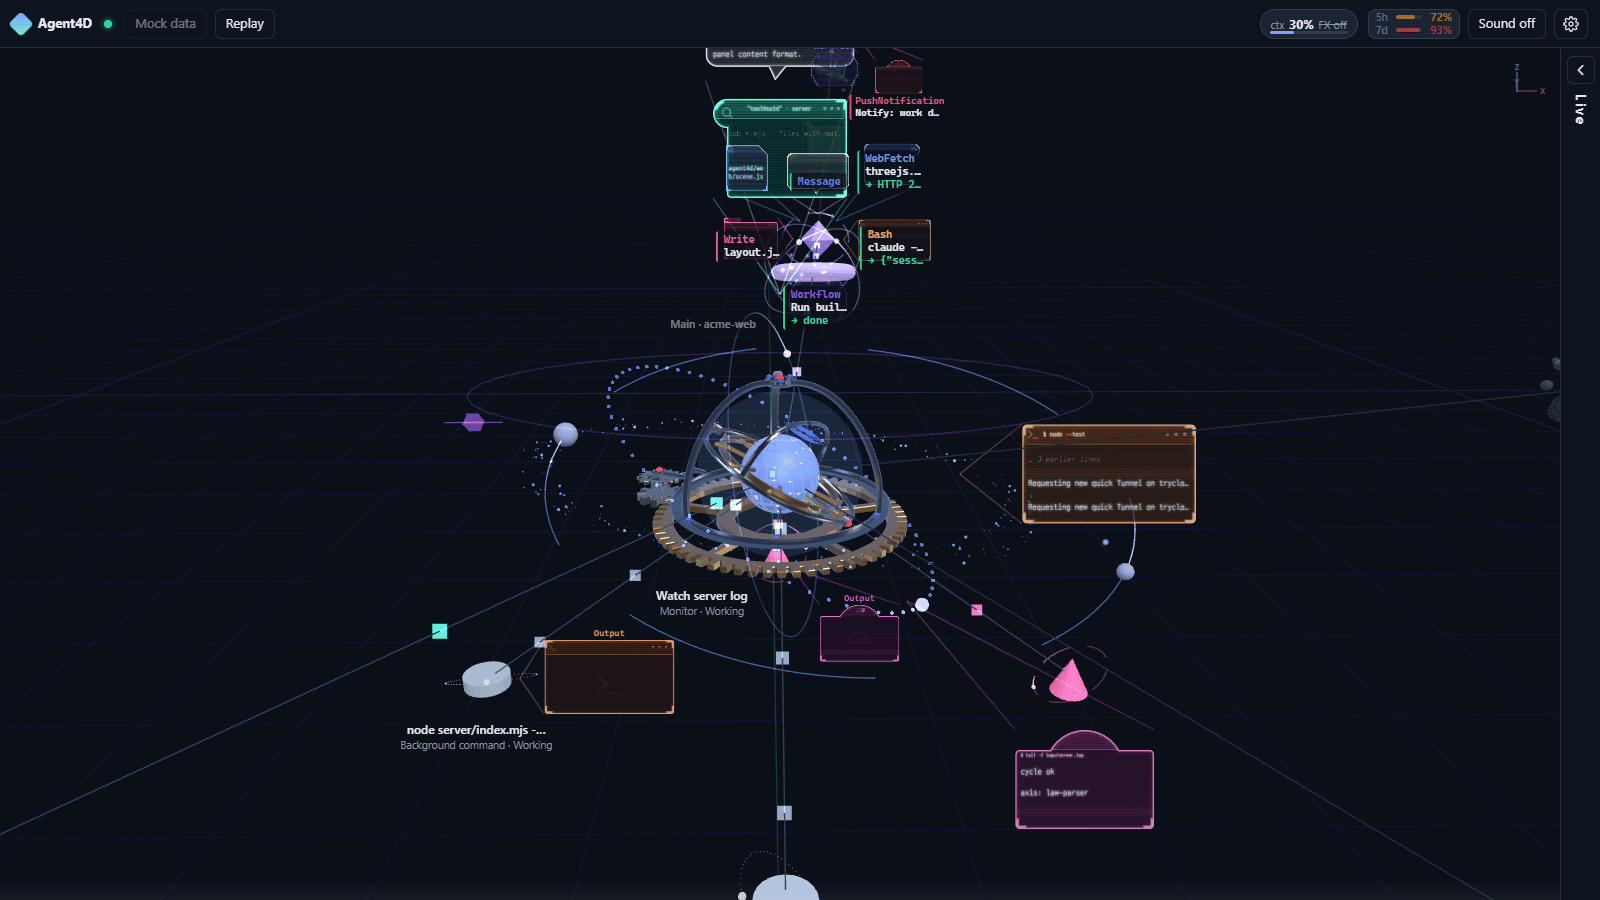
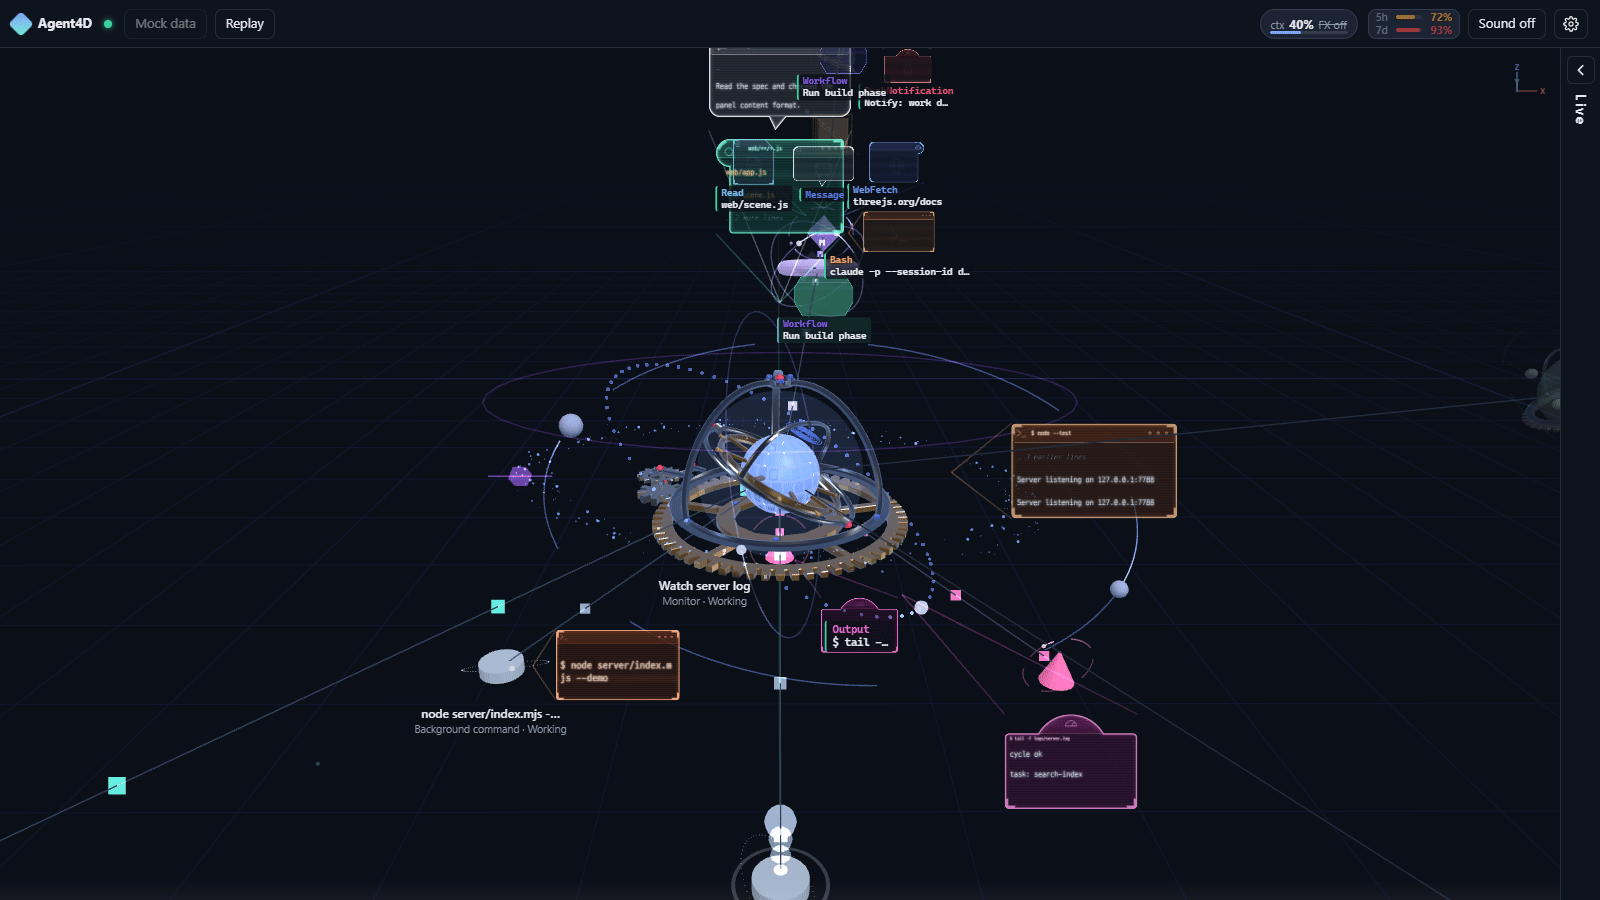
Mock data: generic project and log names; overview mock honors a fixed context level; refreshed screenshots and loops

diff --git a/web/mock.js b/web/mock.js
@@ -14,7 +14,7 @@ const TOOLS = [
   ['Grep', 'search', ['toolUseId', 'task-notification', 'CCVIZ_READY']],
   ['SendMessage', 'agent', ['검증 담당에게 결과 전달']],
   ['Workflow', 'workflow', ['빌드 단계 실행']],
-  ['Skill', 'skill', ['frontend-design', 'cloudflare:cf-cli', 'writing-style', 'skill-creator']],
+  ['Skill', 'skill', ['frontend-design', 'cloudflare:cf-cli', 'style-guide', 'skill-creator']],
   ['WebFetch', 'web', ['developers.cloudflare.com', 'threejs.org']],
   ['Monitor', 'monitor', ['터널 로그 감시']],
   ['mcp__context7__query-docs', 'mcp', ['context7.query-docs']],
@@ -33,7 +33,7 @@ const TEXTS = [
 ];
 const OUTPUTS = [
   'GET /healthz 200 3ms', 'compiling… done in 412ms', '[watch] 2 files changed', '2026-10-23T01:12:04Z INF Registered tunnel connection',
-  'ok 12 - layout golden angle\nok 13 - camera framing', 'event: ev  seq=1532', 'Requesting new quick Tunnel on trycloudflare.com...',
+  'ok 12 - layout golden angle\nok 13 - camera framing', 'event: ev  seq=1532', 'Server listening on 127.0.0.1:7788',
 ];
 const AGENT_LABELS = ['서버 파서 구현', '3D 프런트엔드', '배경음악 합성', 'Cloudflare 워커', '통합 검증', '문서·스킬 정리',
   '계약 검토', '성능 측정', '보안 점검', '모바일 화면 확인'];
@@ -276,7 +276,7 @@ export class MockGenerator {
       onEnd: (o) => this.at(2000, (o2) => { if (!childDone) { childDone = true; this.emit(o2, { type: 'result', nodeId: id, ok: true, text: '독립 세션 결과: 통합 시험 통과' }); this.setStatus(o2, id, 'done'); } }),
     });
     this.at(700, (o) => {
-      this.addNode(o, { id, parentId, kind: 'claude-p', label: 'claude -p · ' + sid.slice(0, 8), meta: { title: '통합 시험을 실행하고 결과를 JSON 으로 보고하라.', cwd: 'C:\\…\\scratchpad\\ccviz-probe' } });
+      this.addNode(o, { id, parentId, kind: 'claude-p', label: 'claude -p · ' + sid.slice(0, 8), meta: { title: '통합 시험을 실행하고 결과를 JSON 으로 보고하라.', cwd: 'C:\\Users\\dev\\AppData\\Local\\Temp\\sandbox' } });
       this.emit(o, { type: 'user', nodeId: id, origin: 'human', text: '통합 시험을 실행하고 결과를 JSON 으로 보고하라.' });
       this.at(500, (o2) => this.act(o2, id));
       this.at(2500, (o2) => this.spawnAgent(o2, id, 'claude -p 하위 에이전트', { life: 16000 }));
@@ -393,7 +393,7 @@ export class MockGenerator {
     this.at(8400, (o) => {
       if (!agent || !this.alive(agent)) return;
       const tu = this.tuid();
-      const cmd = 'cd /d/DEV_REPOS/demo_api && nohup bash .autopilot/relaunch.sh > .autopilot/relaunch.out 2>&1 < /dev/null & disown';
+      const cmd = 'cd /d/code/api-server && nohup bash .loop/relaunch.sh > .loop/relaunch.out 2>&1 < /dev/null & disown';
       this.emit(o, { type: 'tool-start', nodeId: agent, toolUseId: tu, tool: 'Bash', cat: 'shell', skill: null, text: cmd, brief: 'relaunch.sh 분리 실행', detail: '새 축 둘 세우고 루프 재기동' });
       this.emit(o, { type: 'tool-end', nodeId: agent, toolUseId: tu, tool: 'Bash', cat: 'shell', ok: true, durationMs: 240, text: '', brief: 'exit 0' });
       const t = this.t0 + this.t;
@@ -407,7 +407,7 @@ export class MockGenerator {
       this.lc.n = hist.length;
       this.addNode(o, { id: L, parentId: agent, kind: 'bash-bg', label: '기동기 · relaunch.sh', meta: {
         title: '자율 루프 재기동', detached: true, background: true, toolUseId: tu, command: null,
-        launcher: { script: 'relaunch.sh', via: ['relaunch.sh', 'autopilot-pick-axis.sh', 'autopilot.sh'] },
+        launcher: { script: 'relaunch.sh', via: ['relaunch.sh', 'pick-task.sh', 'loop.sh'] },
         ...(opt.adopted ? { adopted: { fromSession: 'd3e7a1c9-demo', launchedAt: this.iso() } } : {}),
         batch: this._batchMeta() } });
       this.at(1200, (o2) => this._startCycle(o2));
@@ -440,7 +440,7 @@ export class MockGenerator {
     this.lc.items.push(it);
     this.addNode(out, { id, parentId: L, kind: 'claude-p', label: 'claude -p · ' + sid.slice(0, 8), meta: {
       title: '자율 사이클이다. 진행 중인 축 하나를 골라 계약대로 한 단계 진행하고 결과를 JSON 으로 남겨라.',
-      cwd: 'D:\\DEV_REPOS\\demo_api', cycle: k,
+      cwd: 'D:\\code\\api-server', cycle: k,
       link: { by: 'launcher', confidence: k % 3 === 0 ? 'medium' : 'high', evidence: k % 3 === 0 ? ['script-claude-p', 'cwd', 'time', 'earlier-same-launcher-open'] : ['script-claude-p', 'cwd', 'time', 'chain'] } } });
     this.emit(out, { type: 'node-update', nodeId: L, patch: { meta: { batch: this._batchMeta() } } });
     this.emit(out, { type: 'user', nodeId: id, origin: 'human', text: '자율 사이클이다. 진행 중인 축 하나를 골라 계약대로 한 단계 진행하라.' });
@@ -452,7 +452,7 @@ export class MockGenerator {
       for (const t of n.openTools.slice()) this.emit(o, { type: 'tool-end', nodeId: id, toolUseId: t.toolUseId, tool: t.tool, cat: t.cat, ok: true, durationMs: 300, text: '완료' });
       for (const c of this.nodes.values()) if (c.parentId === id && this.alive(c.id)) this.finishAgent(o, c.id);
       const stop = k % 5 === 0;
-      this.emit(o, { type: 'result', nodeId: id, ok: true, text: stop ? '시간 초과로 중단' : `{"cycle":${k},"ok":true,"axis":"law-parser"}` });
+      this.emit(o, { type: 'result', nodeId: id, ok: true, text: stop ? '시간 초과로 중단' : `{"cycle":${k},"ok":true,"task":"search-index"}` });
       this.setStatus(o, id, stop ? 'stopped' : 'done');
       it.status = stop ? 'stopped' : 'done'; it.endMs = this.t0 + this.t;
       this.emit(o, { type: 'node-update', nodeId: L, patch: { meta: { batch: this._batchMeta() } } });
@@ -468,9 +468,9 @@ export class MockGenerator {
     const tu = this.tuid();
     this.emit(out, { type: 'tool-start', nodeId: M, toolUseId: tu, tool: 'Monitor', cat: 'monitor', skill: null, text: '루프 상태 감시' });
     this.emit(out, { type: 'tool-end', nodeId: M, toolUseId: tu, tool: 'Monitor', cat: 'monitor', ok: true, durationMs: 60, text: 'taskId 발급' });
-    this.addNode(out, { id, parentId: M, kind: 'monitor', label: '루프 상태 감시', meta: { timeoutMs: 24000, persistent: false, command: 'tail -f .autopilot/relaunch.log',
+    this.addNode(out, { id, parentId: M, kind: 'monitor', label: '루프 상태 감시', meta: { timeoutMs: 24000, persistent: false, command: 'tail -f .loop/relaunch.log',
       ...(prevId ? { rearmOf: prevId, rearmCount: count } : {}) } });
-    const tick = (o) => { if (!this.alive(id)) return; this.emit(o, { type: 'output', nodeId: id, text: ['cycle ok', 'axis: law-parser', 'heartbeat'][Math.floor(this.t / 1000) % 3] }); this.at(4000, tick); };
+    const tick = (o) => { if (!this.alive(id)) return; this.emit(o, { type: 'output', nodeId: id, text: ['cycle ok', 'task: search-index', 'heartbeat'][Math.floor(this.t / 1000) % 3] }); this.at(4000, tick); };
     this.at(1500, tick);
     this.at(24000, (o) => {
       if (!this.alive(id)) return;

diff --git a/web/overview/mock.js b/web/overview/mock.js
@@ -4,7 +4,7 @@
 //   m.start(onEvent, onProjects); m.stop();
 // 기존 MockGenerator 를 루트마다 하나씩 돌리고 id 앞붙이로 겹침을 막는다. projects 이벤트·node-remove 도 합성한다.
 // 프로젝트: 활성 3개(+메인 여러 개) · recent 루트 1개(희미) · 루트 없는 recent 프로젝트 1개 · 독립 claude -p 만 있는 임시 프로젝트 1개.
-// demo_api(demo-beta) 메인은 기동기·배치 예시(서브에이전트 → '기동기 · relaunch.sh'(이어받음) → 회차 반복, 재무장 Monitor)를 돌리고,
+// api-server(demo-beta) 메인은 기동기·배치 예시(서브에이전트 → '기동기 · relaunch.sh'(이어받음) → 회차 반복, 재무장 Monitor)를 돌리고,
 // 같은 프로젝트에 추정 소속(likelyMain)만 있는 독립 claude -p 하나가 그 메인 사무실 대기석에 붙는다.
 // DOM·three 에 의존하지 않는다.
 import { MockGenerator } from '../mock.js';
@@ -12,13 +12,13 @@ import { ConflictTracker, conflictEvent, fileKey, baseOf, sessionMsgEvent } from
 
 const PROJ = [
   { projectId: 'demo-alpha', name: 'acme-web', path: 'D:\\work\\acme-web', titles: ['Claude Code 세션 시각화 3차', '분기 보고서 표 검토', '보고서 초안 정리'] },
-  { projectId: 'demo-beta', name: 'demo_api', path: 'D:\\DEV_REPOS\\demo_api', titles: ['API 평가 모듈 보강', '법령 파서 수정'] },
-  { projectId: 'demo-gamma', name: 'team-skills', path: 'D:\\dev_repos\\team-skills', titles: ['스킬 카탈로그 갱신'] },
-  { projectId: 'demo-delta', name: 'survey-dashboard', path: 'D:\\dev_repos\\survey-dashboard', titles: ['설문 응답 집계'] },
-  { projectId: 'demo-epsilon', name: 'stats-cli', path: 'D:\\dev_repos\\stats-cli', titles: ['통계표 ID 정리'] },
+  { projectId: 'demo-beta', name: 'api-server', path: 'D:\\code\\api-server', titles: ['API 평가 모듈 보강', '검색 파서 수정'] },
+  { projectId: 'demo-gamma', name: 'design-system', path: 'D:\\code\\design-system', titles: ['스킬 카탈로그 갱신'] },
+  { projectId: 'demo-delta', name: 'docs-site', path: 'D:\\code\\docs-site', titles: ['피드백 집계'] },
+  { projectId: 'demo-epsilon', name: 'data-cli', path: 'D:\\code\\data-cli', titles: ['지표 ID 정리'] },
 ];
-const TMP = { projectId: 'demo-tmp', name: '(임시) scratchpad\\ccviz-probe', path: 'C:\\Users\\dev\\AppData\\Local\\Temp\\claude\\…\\scratchpad\\ccviz-probe', temp: true };
-const RECENT_ONLY = { projectId: 'demo-zeta', name: 'md2report', path: 'D:\\dev_repos\\md2report' };
+const TMP = { projectId: 'demo-tmp', name: '(임시) sandbox', path: 'C:\\Users\\dev\\AppData\\Local\\Temp\\sandbox', temp: true };
+const RECENT_ONLY = { projectId: 'demo-zeta', name: 'report-gen', path: 'D:\\code\\report-gen' };
 
 const PRE = 25000;
 
@@ -154,7 +154,7 @@ export function createOverviewMock({ projects = 3, mainsPerProject = [2, 1, 1], 
     orphanRoot = { projectId: TMP.projectId, nodeId: id, sessionId: sid, title: n.meta.title, liveStatus: 'busy', tier: 'live', live: true, orphan: true };
   }
 
-  // ---- 추정 소속만 있는 독립 claude -p(likelyMain): demo_api 메인 사무실 대기석으로 ----
+  // ---- 추정 소속만 있는 독립 claude -p(likelyMain): api-server 메인 사무실 대기석으로 ----
   let guestRoot = null;
   if (orphan && launcher && nP >= 2) {
     const host = roots.find((r) => r.projectId === PROJ[1].projectId);

diff --git a/web/app.js b/web/app.js
@@ -903,7 +903,7 @@ function connect() {
         const multi = params.get('multi');
         const isl = Number(params.get('islands')) || 0; // ?islands=N: 살아 있는 섬 N 개(화면 비율 배치 확인용)
         const m = (ovMock = createOverviewMock(isl ? { projects: isl, mainsPerProject: [2, 1, 1, 2, 1, 1].slice(0, isl), seed: 2026 } : { projects: 4, mainsPerProject: multi ? [3, 2, 0, 5] : [2, 1, 0, 1], seed: 2026 }));
-        const mc = new MockCtx({ roots: true }), mp = new MockPanels();
+        const mc = new MockCtx({ ...mockCtxOpts(), roots: true }), mp = new MockPanels();
         onSnapshotAll(mockEn(mp.seed(mc.seed(m.snapshot()))));
         setConn('ok', tr('app.mock.fakeAll'));
         m.start((ev) => { if (ovMock !== m) return; onEvent(mockEn(mp.apply(ev))); for (const x of mc.after(ev, getNode)) onEvent(x); }, (d) => { if (ovMock === m) onProjects(mockEn(d)); });
